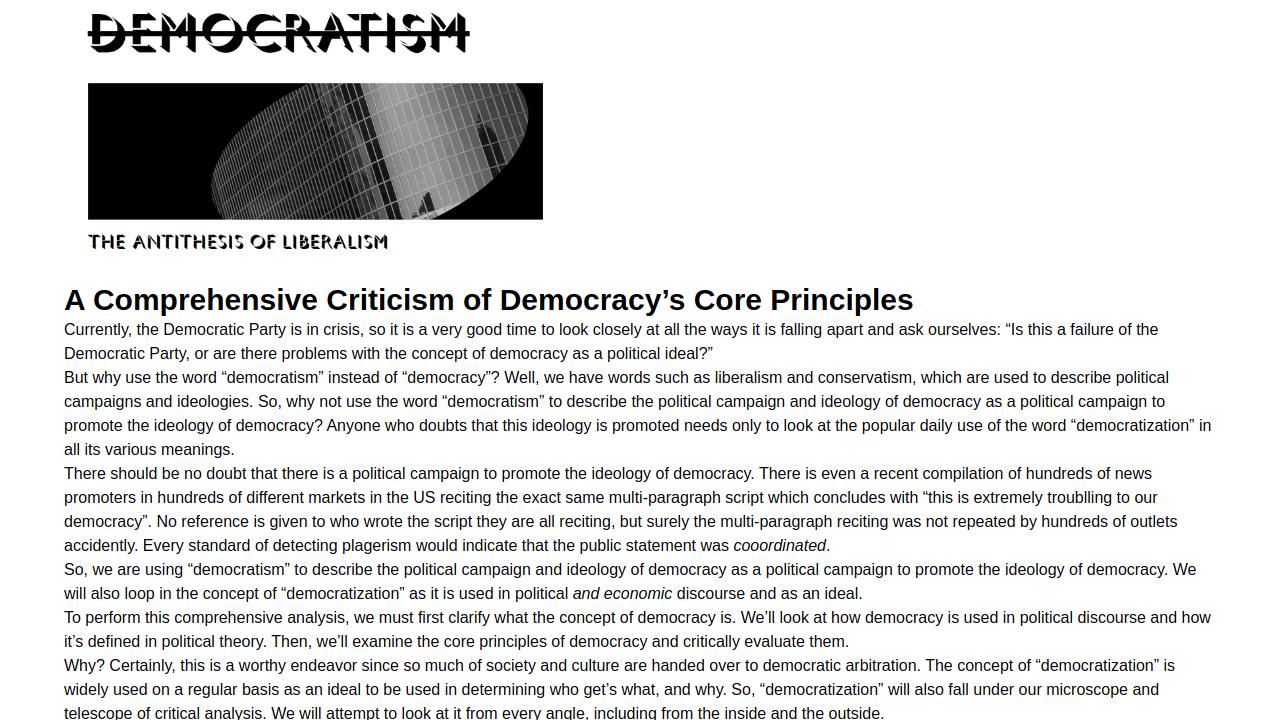
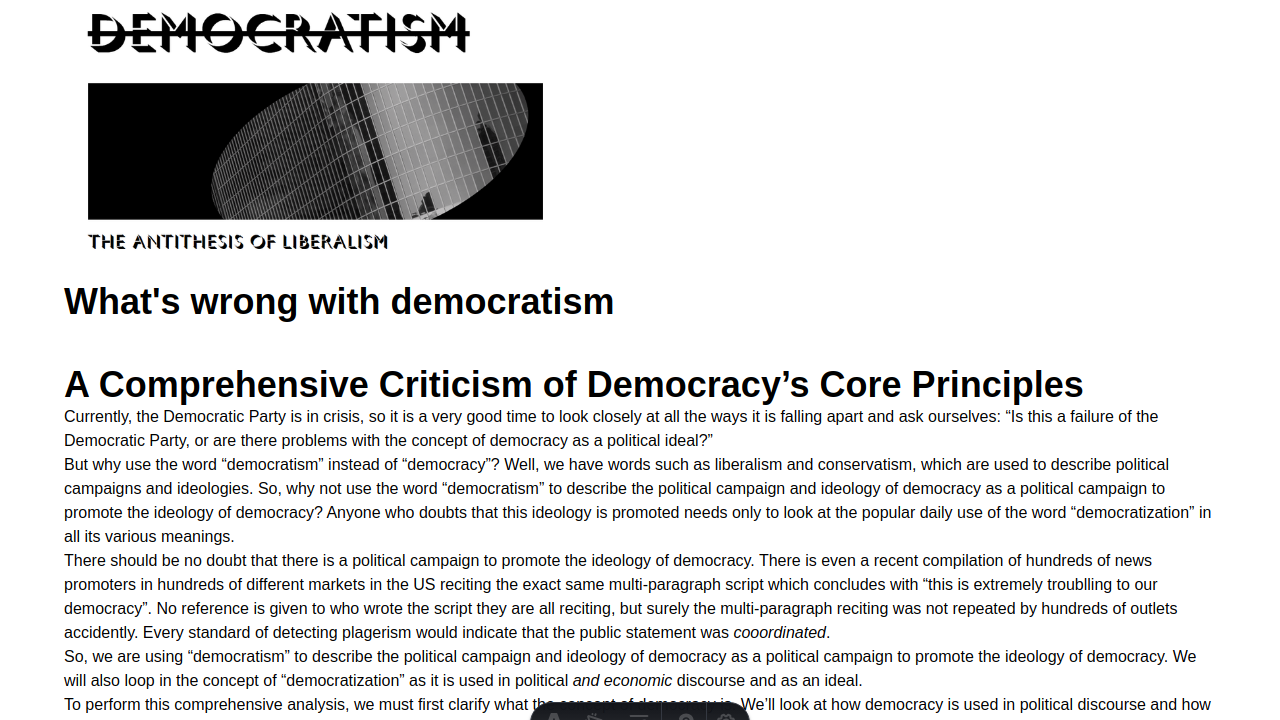
docs: Update plan.md with current progress and refined layout details
This commit updates the project plan to reflect:
- Current progress on content migration, routing, and basic content panel display.
- Refined styling requirements for ContentPanel.astro (no outer padding, inner padding, excerpt expansion).
- Detailed plan for fixing hierarchical content display in subfolder '_index.md' pages.
- Inclusion of automation scripts for debugging and verification (check-subfolder-content.ts, capture-screenshot.ts, dev:log).
- Updated Mermaid diagram to reflect current content flow and layout considerations.

Changed region(s): [[0.0312, 0.3972, 0.9375, 1.0]]

diff --git a/urllog-output/page.html b/urllog-output/page.html
@@ -1,4 +1,4 @@
-<!DOCTYPE html><html lang="en"><head><!-- Google Tag Manager --><script type="text/javascript" async="" src="https://www.googletagmanager.com/gtag/destination?id=G-JZVDP135XB&amp;cx=c&amp;gtm=45He5811v9202802185za200&amp;tag_exp=101509157~103116026~103200004~103233427~104684208~104684211~105087538~105087540~105103161~105103163"></script><script async="" src="https://www.googletagmanager.com/gtm.js?id=GTM-PTHTMPJT"></script><script type="module" src="/src/components/GtmHead.astro?astro&amp;type=script&amp;index=0&amp;lang.ts"></script> <!-- End Google Tag Manager --><meta charset="UTF-8"><meta name="viewport" content="width=device-width"><link rel="icon" type="image/svg+xml" href="/favicon.svg"><meta name="generator" content="Astro v5.12.8"><title>Democratism Info</title><style data-vite-dev-id="/home/mstouffer/repos/democratism/node_modules/@astrojs/tailwind/base.css">*, ::before, ::after {
+<!DOCTYPE html><html lang="en"><head><!-- Google Tag Manager --><script type="text/javascript" async="" src="https://www.googletagmanager.com/gtag/destination?id=G-JZVDP135XB&amp;cx=c&amp;gtm=45He5840v9202802185za200&amp;tag_exp=101509157~103116026~103200004~103233427~104684208~104684211~105087538~105087540~105103161~105103163"></script><script async="" src="https://www.googletagmanager.com/gtm.js?id=GTM-PTHTMPJT"></script><script type="module" src="/src/components/GtmHead.astro?astro&amp;type=script&amp;index=0&amp;lang.ts"></script> <!-- End Google Tag Manager --><meta charset="UTF-8"><meta name="viewport" content="width=device-width"><link rel="icon" type="image/svg+xml" href="/favicon.svg"><meta name="generator" content="Astro v5.12.8"><title>What's wrong with democratism</title><style data-vite-dev-id="/home/mstouffer/repos/democratism/node_modules/@astrojs/tailwind/base.css">*, ::before, ::after {
   --tw-border-spacing-x: 0;
   --tw-border-spacing-y: 0;
   --tw-translate-x: 0;
@@ -554,6 +554,9 @@ video {
 .mt-4 {
   margin-top: 1rem;
 }
+.mt-8 {
+  margin-top: 2rem;
+}
 .block {
   display: block;
 }
@@ -586,9 +589,6 @@ video {
 }
 .rounded {
   border-radius: 0.25rem;
-}
-.rounded-lg {
-  border-radius: 0.5rem;
 }
 .rounded-md {
   border-radius: 0.375rem;
@@ -623,6 +623,10 @@ video {
   font-size: 1.5rem;
   line-height: 2rem;
 }
+.text-sm {
+  font-size: 0.875rem;
+  line-height: 1.25rem;
+}
 .text-xl {
   font-size: 1.25rem;
   line-height: 1.75rem;
@@ -633,14 +637,13 @@ video {
 .font-semibold {
   font-weight: 600;
 }
+.text-gray-500 {
+  --tw-text-opacity: 1;
+  color: rgb(107 114 128 / var(--tw-text-opacity, 1));
+}
 .text-gray-600 {
   --tw-text-opacity: 1;
   color: rgb(75 85 99 / var(--tw-text-opacity, 1));
-}
-.shadow-md {
-  --tw-shadow: 0 4px 6px -1px rgb(0 0 0 / 0.1), 0 2px 4px -2px rgb(0 0 0 / 0.1);
-  --tw-shadow-colored: 0 4px 6px -1px var(--tw-shadow-color), 0 2px 4px -2px var(--tw-shadow-color);
-  box-shadow: var(--tw-ring-offset-shadow, 0 0 #0000), var(--tw-ring-shadow, 0 0 #0000), var(--tw-shadow);
 }
 .shadow-none {
   --tw-shadow: 0 0 #0000;
@@ -664,19 +667,6 @@ video {
   transition-property: color, background-color, border-color, text-decoration-color, fill, stroke, opacity, box-shadow, transform, filter, backdrop-filter, -webkit-backdrop-filter;
   transition-timing-function: cubic-bezier(0.4, 0, 0.2, 1);
   transition-duration: 150ms;
-}
-.transition-shadow {
-  transition-property: box-shadow;
-  transition-timing-function: cubic-bezier(0.4, 0, 0.2, 1);
-  transition-duration: 150ms;
-}
-.duration-200 {
-  transition-duration: 200ms;
-}
-.hover\:shadow-lg:hover {
-  --tw-shadow: 0 10px 15px -3px rgb(0 0 0 / 0.1), 0 4px 6px -4px rgb(0 0 0 / 0.1);
-  --tw-shadow-colored: 0 10px 15px -3px var(--tw-shadow-color), 0 4px 6px -4px var(--tw-shadow-color);
-  box-shadow: var(--tw-ring-offset-shadow, 0 0 #0000), var(--tw-ring-shadow, 0 0 #0000), var(--tw-shadow);
 }
 @media (min-width: 640px) {
 
@@ -783,16 +773,14 @@ h3 {
   font-size: 1.5rem; /* 24px */
   line-height: 2rem; /* 32px */
 }
-</style>
-<style data-vite-dev-id="/home/mstouffer/repos/democratism/src/components/AmazonBook.astro?astro&amp;type=style&amp;index=0&amp;lang.css">.amazon-book[data-astro-cid-6622cg2l]{border:1px solid #ccc;padding:10px;display:flex;max-width:200px;flex-direction:column;align-items:center;text-decoration:none;color:black}.amazon-book[data-astro-cid-6622cg2l] img[data-astro-cid-6622cg2l]{max-width:150px;height:auto}.amazon-book[data-astro-cid-6622cg2l] h3[data-astro-cid-6622cg2l]{margin-top:10px;text-align:center}</style><script type="module" src="/@vite/client"></script>
+</style><script type="module" src="/@vite/client"></script>
 <script type="module" src="/@fs/home/mstouffer/repos/democratism/node_modules/astro/dist/runtime/client/dev-toolbar/entrypoint.js?v=2b95b5b4"></script>
 <script>window.__astro_dev_toolbar__ = {"root":"/home/mstouffer/repos/democratism/","version":"5.12.8","debugInfo":"Astro                    v5.12.8\nNode                     v22.15.1\nSystem                   Linux (x64)\nPackage Manager          npm\nOutput                   static\nAdapter                  none\nIntegrations             @astrojs/mdx\n                         @astrojs/react\n                         @astrojs/tailwind\n                         @astrojs/partytown\n                         @sentry/astro\n                         @spotlightjs/astro\n                         @astrojs/sitemap"}</script>
 <script>!(function(w,p,f,c){if(!window.crossOriginIsolated && !navigator.serviceWorker) return;c=w[p]=Object.assign(w[p]||{},{"lib":"/~partytown/","debug":true});c[f]=(c[f]||[])})(window,'partytown','forward');/* Partytown 0.11.2 - MIT QwikDev */
 const t={preserveBehavior:!1},e=e=>{if("string"==typeof e)return[e,t];const[n,r=t]=e;return[n,{...t,...r}]},n=Object.freeze((t=>{const e=new Set;let n=[];do{Object.getOwnPropertyNames(n).forEach((t=>{"function"==typeof n[t]&&e.add(t)}))}while((n=Object.getPrototypeOf(n))!==Object.prototype);return Array.from(e)})());!function(t,r,o,i,a,s,c,l,d,p,u=t,f){function h(){f||(f=1,"/"==(c=(s.lib||"/~partytown/")+(s.debug?"debug/":""))[0]&&(d=r.querySelectorAll('script[type="text/partytown"]'),i!=t?i.dispatchEvent(new CustomEvent("pt1",{detail:t})):(l=setTimeout(v,(null==s?void 0:s.fallbackTimeout)||1e4),r.addEventListener("pt0",w),a?y(1):o.serviceWorker?o.serviceWorker.register(c+(s.swPath||"partytown-sw.js"),{scope:c}).then((function(t){t.active?y():t.installing&&t.installing.addEventListener("statechange",(function(t){"activated"==t.target.state&&y()}))}),console.error):v())))}function y(e){p=r.createElement(e?"script":"iframe"),t._pttab=Date.now(),e||(p.style.display="block",p.style.width="0",p.style.height="0",p.style.border="0",p.style.visibility="hidden",p.setAttribute("aria-hidden",!0)),p.src=c+"partytown-"+(e?"atomics.js?v=0.11.2":"sandbox-sw.html?"+t._pttab),r.querySelector(s.sandboxParent||"body").appendChild(p)}function v(n,o){for(w(),i==t&&(s.forward||[]).map((function(n){const[r]=e(n);delete t[r.split(".")[0]]})),n=0;n<d.length;n++)(o=r.createElement("script")).innerHTML=d[n].innerHTML,o.nonce=s.nonce,r.head.appendChild(o);p&&p.parentNode.removeChild(p)}function w(){clearTimeout(l)}s=t.partytown||{},i==t&&(s.forward||[]).map((function(r){const[o,{preserveBehavior:i}]=e(r);u=t,o.split(".").map((function(e,r,o){var a;u=u[o[r]]=r+1<o.length?u[o[r]]||(a=o[r+1],n.includes(a)?[]:{}):(()=>{let e=null;if(i){const{methodOrProperty:n,thisObject:r}=((t,e)=>{let n=t;for(let t=0;t<e.length-1;t+=1)n=n[e[t]];return{thisObject:n,methodOrProperty:e.length>0?n[e[e.length-1]]:void 0}})(t,o);"function"==typeof n&&(e=(...t)=>n.apply(r,...t))}return function(){let n;return e&&(n=e(arguments)),(t._ptf=t._ptf||[]).push(o,arguments),n}})()}))})),"complete"==r.readyState?h():(t.addEventListener("DOMContentLoaded",h),t.addEventListener("load",h))}(window,document,navigator,top,window.crossOriginIsolated);;(e=>{e.addEventListener("astro:before-swap",e=>{let r=document.body.querySelector("iframe[src*='/~partytown/']");if(r)e.newDocument.body.append(r)})})(document);</script>
 <script type="module" src="/@id/astro:scripts/page.js"></script>
 <script type="module" src="/node_modules/@astrojs/tailwind/base.css"></script>
-<script type="module" src="/src/styles/global.css"></script>
-<script type="module" src="/src/components/AmazonBook.astro?astro&amp;type=style&amp;index=0&amp;lang.css"></script></head><body data-astro-source-file="/home/mstouffer/repos/democratism/src/layouts/Layout.astro" data-astro-source-loc="26:9"> <!-- Google Tag Manager (noscript) --><noscript><iframe src="https://www.googletagmanager.com/ns.html?id=GTM-PTHTMPJT" height="0" width="0" style="display:none;visibility:hidden" data-astro-source-file="/home/mstouffer/repos/democratism/src/components/GtmBody.astro" data-astro-source-loc="5:12"></iframe></noscript><!-- End Google Tag Manager (noscript) --> <div class="px-4 md:px-8 lg:px-16" data-astro-source-file="/home/mstouffer/repos/democratism/src/layouts/Layout.astro" data-astro-source-loc="28:40"> <img src="/images/hero_700x369.png" alt="hero" width="40%" class="hero" data-astro-source-file="/home/mstouffer/repos/democratism/src/components/Header.astro" data-astro-source-loc="4:2"> </div> <div class="px-4 md:px-8 lg:px-16" data-astro-source-file="/home/mstouffer/repos/democratism/src/layouts/Layout.astro" data-astro-source-loc="31:40"> <h2 id="a-comprehensive-criticism-of-democracys-core-principles">A Comprehensive Criticism of Democracy’s Core Principles</h2>
+<script type="module" src="/src/styles/global.css"></script></head><body> <!-- Google Tag Manager (noscript) --><noscript><iframe src="https://www.googletagmanager.com/ns.html?id=GTM-PTHTMPJT" height="0" width="0" style="display:none;visibility:hidden" data-astro-source-file="/home/mstouffer/repos/democratism/src/components/GtmBody.astro" data-astro-source-loc="5:12"></iframe></noscript><!-- End Google Tag Manager (noscript) --> <div class="px-4 md:px-8 lg:px-16"> <img src="/images/hero_700x369.png" alt="hero" width="40%" class="hero"> </div> <div class="px-4 md:px-8 lg:px-16"> <main> <h1>What's wrong with democratism</h1>   <h1 id="a-comprehensive-criticism-of-democracys-core-principles">A Comprehensive Criticism of Democracy’s Core Principles</h1>
 <p>Currently, the Democratic Party is in crisis, so it is a very good time to look closely at all the ways it is falling apart and ask ourselves: “Is this a failure of the Democratic Party, or are there problems with the concept of democracy as a political ideal?”</p>
 <p>But why use the word “democratism” instead of “democracy”? Well, we have words such as liberalism and conservatism, which are used to describe political campaigns and ideologies. So, why not use the word “democratism” to describe the political campaign and ideology of democracy as a political campaign to promote the ideology of democracy? Anyone who doubts that this ideology is promoted needs only to look at the popular daily use of the word “democratization” in all its various meanings.</p>
 <p>There should be no doubt that there is a political campaign to promote the ideology of democracy. There is even a recent compilation of hundreds of news promoters in hundreds of different markets in the US reciting the exact same multi-paragraph script which concludes with “this is extremely troublling to our democracy”. No reference is given to who wrote the script they are all reciting, but surely the multi-paragraph reciting was not repeated by hundreds of outlets accidently. Every standard of detecting plagerism would indicate that the public statement was <em>cooordinated</em>.</p>
@@ -802,57 +790,6 @@ const t={preserveBehavior:!1},e=e=>{if("string"==typeof e)return[e,t];const[n,r=
 <p>If democracy is prommoted as an idea, that is to say, as something to be pursued in life and even as a political campaign, and if it is false or flawed, then it will promote false requirements. False requirements <em>always</em> end up sovling the wrong problem. So we will also investigate all the cultural artifacts that have been produced and that we live with today because moralists and “thought leaders” have been promoting the false requirements of democracy for many decades.</p>
 <p>So let us begin with a comprehensive list of both the popular concept of democracy and the more technically developed definitions of democracy so that we can “deconstruct” them.</p>
 <p>NOTE: I will be using the justifications for democracy produced by OPEN AI’s GPT-4o model as a first draft. It has read much of the internet, and the LLM is specifically designed to produce the most common text phrases, so it is probably a better starting point than any academic study, however, we will also incorporate those as time permits.</p>
-<p>All edits are available at <a href="https://github.com/integ8or/democratism">The GitHub repo for this site</a></p>
-<h2 id="introduction">Introduction</h2>
-<p>In the vast expanse of human history, the concept of democracy has been a beacon of hope and progress. However, the term “democracy” itself is often misunderstood, leading to misconceptions about its true essence and the values it upholds.</p>
-<p>NOTE: Democracy “is often misunderstood” because the concept difers greatly from its implementation.</p>
-<p>This article aims to clarify these misunderstandings and delve into the core principles of democracy, emphasizing the importance of “democratism” as a guiding force for a truly democratic society.</p>
-<p>NOTE: This article will not assume that the dominant political theory is simply accidentally misunderstood. This article will ask the somewhat novel approach of asking if democracy as it is promoted and used is a coherent ideal. Certainly, a majority vote system exists and can be used, so we are not going to question if such a system can possibly be used. However, we will question the entire remainder of democracy wherin majority vote is promoted and campaigned for as the system to be applied generally.</p>
-<h2 id="the-falacy-of-democratization">The Falacy of Democratization</h2>
-<p>The only one good claim of Democracy is that it redistributes power.</p>
-<p>Even that statement is too generous. The claimed intent of democracy is that it will redistribute power. That’s the sales pitch, and that would be a good thing for it to do. However, the redistribution of power is the farthest thing from what democracy delivers, or is even designed to do. Democratists will redistributed all goods and services that they have plundered from their citizens in order to avoid having to redistribute power.</p>
-<h2 id="the-misunderstanding-of-democracy">The Misunderstanding of Democracy</h2>
-<p>Democracy is often mistakenly equated with majority rule, where the will of the majority prevails over the rights and interests of minorities. This narrow interpretation fails to capture the essence of democracy, which is a system of governance that values individual rights, freedom, and equality.
-Democracy is not merely about voting for leaders or making decisions through popular referendums. It is a complex system that encompasses various institutions, processes, and norms that ensure the participation, representation, and accountability of all citizens.</p>
-<p>NOTE: This is quite a misdirection. Democracy <em>is rightfully</em> equated with majority rule, because that’s how it’s implemented. However, the misdirection gives away the game by telling us that democracy is actually made up of “a complex system that encompasses various institutions”, and the rest is mere “convincing language”. Democracy itself does not value individual rights, for instance, and democratists (promoters of democracy) often malign individual self interest as “selfishness”, and in opposition to “the common good”.</p>
-<p>..So, the remaining part of the misdirection is the “complex system of institutions” part. This is a common misdirection, and it’s a way to make democracy sound more complex and sophisticated than it is. In reality, democracy is a simple system: the majority rules. That’s it. The “complex system of institutions” are the millions of governmet funded agencies, NGOs, and other organizations that are used to influence public opinion and promote the agenda of the majority elect. These institutions are not part of democracy itself. They are a way of for elected officials to move portions of their agenda beyond the accountablity of the electorate.</p>
-<h2 id="the-core-principles-of-democracy">The Core Principles of Democracy</h2>
-<p>To understand the true nature of democracy, let’s examine its core principles:</p>
-<ol>
-<li><strong>Sovereignty of the People</strong>: The ultimate source of power in a democratic society is the people themselves. Citizens have the right to govern themselves and make decisions that reflect their collective will.</li>
-<li><strong>Individual Rights and Freedoms</strong>: Democracy recognizes and protects the inherent rights and freedoms of every individual. These include the right to life, liberty, and the pursuit of happiness, as well as the right to equality before the law and the right to participate in the political process.</li>
-<li><strong>Separation of Powers</strong>: Democracy divides power among various institutions, such as the legislature, executive, and judiciary. This separation ensures that no single branch of government can exercise unchecked power and that checks and balances are in place to maintain the integrity of the system.</li>
-<li><strong>Rule of Law</strong>: Democracy is based on the principle of the rule of law, which means that all citizens, including government officials, are subject to the same laws and are equal before the law. This ensures that the law is applied fairly and consistently.</li>
-<li><strong>Representation and Accountability</strong>: Democracy requires that all citizens have the opportunity to be represented in the political process and that elected officials are held accountable for their actions. This can be achieved through various mechanisms, such as regular elections, term limits, and the ability to recall or impeach officials.</li>
-</ol>
-<h2 id="democratism-a-guiding-force-for-democracy">Democratism: A Guiding Force for Democracy</h2>
-<p>Democratism is a philosophy that serves as a guiding force for democracy. It emphasizes the importance of active citizenship, participation, and engagement in the political process. Democratism encourages individuals to take an active role in shaping their communities and society, rather than relying solely on elected officials to make decisions on their behalf.
-Democratism also emphasizes the importance of inclusivity and diversity in the political process. It recognizes that all voices should be heard and that decisions should be made in a way that reflects the diversity of the population. Democratism promotes the idea that democracy is not just about voting, but also about creating a society that is fair, just, and equitable for all.</p>
-<h3 id="key-principles-of-democratism">Key Principles of Democratism</h3>
-<ol>
-<li><strong>Active Citizenship</strong>: Democratism emphasizes the importance of active citizenship, which means that individuals should be engaged in the political process and take an active role in shaping their communities and society. This can be achieved through various means, such as voting, volunteering, and participating in community organizations.</li>
-<li><strong>Participation and Engagement</strong>: Democratism encourages individuals to be actively involved in the political process, rather than simply voting every few years. This can involve attending public meetings, joining community organizations, and engaging in online discussions and campaigns.</li>
-<li><strong>Inclusivity and Diversity</strong>: Democratism recognizes the importance of inclusivity and diversity in the political process. It promotes the idea that all voices should be heard and that decisions should be made in a way that reflects the diversity of the population. This can involve efforts to ensure that elections are fair and accessible, and that policies and programs are designed to meet the needs of all communities.</li>
-<li><strong>Fairness and Equity</strong>: Democratism emphasizes the importance of fairness and equity in society. It promotes the idea that all individuals should have equal access to opportunities and resources, and that decisions should be made in a way that benefits all members of society. This can involve efforts to address systemic inequalities and to ensure that policies and programs are designed to promote social justice and economic mobility.</li>
-<li><strong>Transparency and Accountability</strong>: Democratism values transparency and accountability in the political process. It promotes the idea that government should be open and accountable to its citizens, and that decisions should be made in a way that is transparent and easily understood. This can involve efforts to ensure that government records are publicly available, that officials are subject to regular audits, and that decisions are made in a way that is open to public scrutiny.</li>
-<li><strong>Collaboration and Cooperation</strong>: Democratism emphasizes the importance of collaboration and cooperation in the political process. It promotes the idea that decisions should be made in a way that involves the input and participation of a wide range of stakeholders, including individuals, communities, and organizations. This can involve efforts to build coalitions and partnerships, and to ensure that decisions are made in a way that reflects the needs and interests of all stakeholders.</li>
-<li><strong>Empowerment and Self-Determination</strong>: Democratism promotes the idea that individuals and communities should have the power to shape their own destinies. It emphasizes the importance of empowering individuals and communities to make decisions about their own lives, and to take control of their own futures. This can involve efforts to ensure that individuals have access to the resources and support they need to make informed decisions, and to ensure that communities have the autonomy to make decisions about their own affairs.</li>
-<li><strong>Inclusion and Equality</strong>: Democratism values inclusion and equality, and promotes the idea that all individuals and communities should be treated fairly and with respect. It emphasizes the importance of ensuring that all individuals have equal access to the resources and opportunities they need to succeed, and that decisions are made in a way that reflects the needs and interests of all individuals and communities. This can involve efforts to address systemic inequalities and discrimination, and to ensure that all individuals have the opportunity to participate in the political process.</li>
-<li><strong>Participation and Engagement</strong>: Democratism values participation and engagement in the political process. It promotes the idea that individuals and communities should have the opportunity to participate in decision-making, and that their voices should be heard and respected. This can involve efforts to ensure that individuals have access to the information and resources they need to make informed decisions, and that they have the opportunity to participate in elections and other forms of political engagement.</li>
-<li><strong>Responsiveness and Accountability</strong>: Democratism values responsiveness and accountability in the political process. It promotes the idea that government should be responsive to the needs and concerns of its citizens, and that officials should be held accountable for their actions. This can involve efforts to ensure that government is responsive to public input and feedback, and that officials are held accountable for their decisions and actions.</li>
-<li><strong>Transparency and Openness</strong>: Democratism values transparency and openness in the political process. It promotes the idea that government should be open and accountable to its citizens, and that information should be made available to the public in a timely and accessible manner. This can involve efforts to ensure that government meetings and documents are open to the public, and that officials are required to disclose information about their financial interests and activities.</li>
-<li><strong>Rule of Law</strong>: Democratism values the rule of law, which means that all individuals and institutions are subject to the same laws and that those laws are enforced fairly and impartially. This promotes the idea that everyone is equal before the law, and that the law should be used to protect the rights and interests of all citizens.</li>
-<li><strong>Civil Society and Civil Liberties</strong>: Democratism values the role of civil society and civil liberties in a democratic society. It promotes the idea that civil society organizations and individuals should have the freedom to organize and engage in activities that promote the common good, and that individuals should have the freedom to express themselves and engage in political activity without fear of reprisal. This can involve efforts to protect the rights of individuals to freedom of speech, assembly, and association, and to promote the role of civil society organizations in addressing social and political issues.</li>
-<li><strong>Pluralism and Diversity</strong>: Democratism values pluralism and diversity, which means that it recognizes and respects the diversity of ideas, cultures, and backgrounds within a society. It promotes the idea that a democratic society should be inclusive and welcoming to all individuals, regardless of their race, ethnicity, religion, gender, sexual orientation, or other characteristics. This can involve efforts to promote diversity and inclusion in government, education, and other institutions, and to ensure that the voices of marginalized and underrepresented groups are heard and respected.</li>
-<li><strong>Sustainability and Long-Term Thinking</strong>: Democratism values sustainability and long-term thinking, which means that it recognizes the need to consider the impact of decisions on future generations. It promotes the idea that decisions should be made with an eye towards the long-term well-being of society, and that the environment and natural resources should be protected and managed in a sustainable manner. This can involve efforts to promote sustainable development, to address climate change, and to ensure that decisions are made with an eye towards the long-term interests of society.</li>
-<li><strong>Citizen Participation and Empowerment</strong>: Democratism values citizen participation and empowerment, which means that it recognizes the importance of involving citizens in the democratic process and empowering them to make informed decisions about their own lives. It promotes the idea that citizens should have the opportunity to participate in government, to have their voices heard, and to make a difference in their communities. This can involve efforts to promote civic education, to increase voter turnout, and to ensure that citizens have access to the information and resources they need to make informed decisions.</li>
-<li><strong>Rule of Law and Due Process</strong>: Democratism values the rule of law and due process, which means that it recognizes the importance of following the law and ensuring that all individuals are treated fairly and equally under the law. It promotes the idea that the government should be bound by the law, and that individuals should have the right to due process and a fair trial. This can involve efforts to promote transparency and accountability in government, to ensure that the legal system is fair and impartial, and to protect the rights and liberties of individuals.</li>
-<li><strong>Freedom of Expression and Assembly</strong>: Democratism values freedom of expression and assembly, which means that it recognizes the importance of allowing individuals to freely express their ideas and opinions, and to peacefully assemble and organize. It promotes the idea that individuals should have the right to speak out against injustice, to protest peacefully, and to organize and advocate for their interests. This can involve efforts to promote freedom of speech, to protect the rights of journalists and other media professionals, and to ensure that individuals have the opportunity to express their views and opinions in a safe and supportive environment.</li>
-<li><strong>Equality and Non-Discrimination</strong>: Democratism values equality and non-discrimination, which means that it recognizes the importance of treating all individuals equally and without discrimination. It promotes the idea that all individuals should have the same rights and opportunities, regardless of their race, ethnicity, religion, gender, sexual orientation, or other characteristics. This can involve efforts to promote equal opportunities in education, employment, and other areas of life, and to ensure that individuals are not discriminated against on the basis of their identity or background.</li>
-<li><strong>Responsibility and Accountability</strong>: Democratism values responsibility and accountability, which means that it recognizes the importance of holding individuals and institutions accountable for their actions. It promotes the idea that individuals should be held responsible for their decisions and actions, and that institutions should be held accountable for their performance. This can involve efforts to promote transparency and accountability in government, to ensure that individuals are held responsible for their actions, and to hold institutions to high standards of performance.</li>
-<li><strong>Participation and Inclusion</strong>: Democratism values participation and inclusion, which means that it recognizes the importance of involving all individuals in the decision-making process and ensuring that all voices are heard. It promotes the idea that democracy should be a participatory process, in which all individuals have the opportunity to participate in decision-making and to have their voices heard. This can involve efforts to promote political participation, to ensure that marginalized groups are included in the decision-making process, and to promote dialogue and collaboration among individuals with different backgrounds and perspectives.</li>
-<li><strong>Rule of Law</strong>: Democratism values the rule of law, which means that it recognizes the importance of following the law and upholding the principles of justice. It promotes the idea that all individuals should be subject to the same laws, and that the laws should be fair, just, and transparent. This can involve efforts to promote legal reform, to ensure that the legal system is accessible to all individuals, and to promote the principles of justice and fairness in the legal system.</li>
-<li><strong>Civil Society and Civil Liberties</strong>: Democratism values civil society and civil liberties, which means that it recognizes the importance of protecting the rights and freedoms of individuals and promoting the development of civil society. It promotes the idea that individuals should have the freedom to express themselves, to associate with others, and to participate in civil society. This can involve efforts to promote freedom of speech, to protect the rights of marginalized groups, and to promote the development of civil society organizations and institutions.</li>
-</ol><div class="grid grid-cols-1 sm:grid-cols-2 lg:grid-cols-3 gap-6" data-astro-source-file="/home/mstouffer/repos/democratism/src/pages/index.astro" data-astro-source-loc="57:69"> <a href="/content/democratism-vs-property" class="block" data-astro-source-file="/home/mstouffer/repos/democratism/src/components/ContentPanel.astro" data-astro-source-loc="13:30"> <div class="p-4 rounded-lg shadow-md hover:shadow-lg transition-shadow duration-200" data-astro-source-file="/home/mstouffer/repos/democratism/src/components/ContentPanel.astro" data-astro-source-loc="14:88">  <h2 class="text-xl font-semibold mb-2" data-astro-source-file="/home/mstouffer/repos/democratism/src/components/ContentPanel.astro" data-astro-source-loc="18:44">Democratism vs. Property</h2> <p class="text-gray-600" data-astro-source-file="/home/mstouffer/repos/democratism/src/components/ContentPanel.astro" data-astro-source-loc="19:30">Democratism is sold as a system that keeps the government acountable to the people it governs, but how does it do that?</p> </div> </a><a href="/content/equity-is-evil" class="block" data-astro-source-file="/home/mstouffer/repos/democratism/src/components/ContentPanel.astro" data-astro-source-loc="13:30"> <div class="p-4 rounded-lg shadow-md hover:shadow-lg transition-shadow duration-200" data-astro-source-file="/home/mstouffer/repos/democratism/src/components/ContentPanel.astro" data-astro-source-loc="14:88">  <h2 class="text-xl font-semibold mb-2" data-astro-source-file="/home/mstouffer/repos/democratism/src/components/ContentPanel.astro" data-astro-source-loc="18:44">Equity is Evil</h2> <p class="text-gray-600" data-astro-source-file="/home/mstouffer/repos/democratism/src/components/ContentPanel.astro" data-astro-source-loc="19:30"></p> </div> </a><a href="/content/not-about-the-democratic-party" class="block" data-astro-source-file="/home/mstouffer/repos/democratism/src/components/ContentPanel.astro" data-astro-source-loc="13:30"> <div class="p-4 rounded-lg shadow-md hover:shadow-lg transition-shadow duration-200" data-astro-source-file="/home/mstouffer/repos/democratism/src/components/ContentPanel.astro" data-astro-source-loc="14:88">  <h2 class="text-xl font-semibold mb-2" data-astro-source-file="/home/mstouffer/repos/democratism/src/components/ContentPanel.astro" data-astro-source-loc="18:44">Not About the Democratic Party</h2> <p class="text-gray-600" data-astro-source-file="/home/mstouffer/repos/democratism/src/components/ContentPanel.astro" data-astro-source-loc="19:30"></p> </div> </a><a href="/content/not-about-rehabilitating-democracy" class="block" data-astro-source-file="/home/mstouffer/repos/democratism/src/components/ContentPanel.astro" data-astro-source-loc="13:30"> <div class="p-4 rounded-lg shadow-md hover:shadow-lg transition-shadow duration-200" data-astro-source-file="/home/mstouffer/repos/democratism/src/components/ContentPanel.astro" data-astro-source-loc="14:88">  <h2 class="text-xl font-semibold mb-2" data-astro-source-file="/home/mstouffer/repos/democratism/src/components/ContentPanel.astro" data-astro-source-loc="18:44">This Deep Dive should not focus on rehabilitating democratism</h2> <p class="text-gray-600" data-astro-source-file="/home/mstouffer/repos/democratism/src/components/ContentPanel.astro" data-astro-source-loc="19:30"></p> </div> </a><a href="/content/the-democratist-political-pyramid-scheme" class="block" data-astro-source-file="/home/mstouffer/repos/democratism/src/components/ContentPanel.astro" data-astro-source-loc="13:30"> <div class="p-4 rounded-lg shadow-md hover:shadow-lg transition-shadow duration-200" data-astro-source-file="/home/mstouffer/repos/democratism/src/components/ContentPanel.astro" data-astro-source-loc="14:88">  <h2 class="text-xl font-semibold mb-2" data-astro-source-file="/home/mstouffer/repos/democratism/src/components/ContentPanel.astro" data-astro-source-loc="18:44">The Democratist Political Pyramid Scheme</h2> <p class="text-gray-600" data-astro-source-file="/home/mstouffer/repos/democratism/src/components/ContentPanel.astro" data-astro-source-loc="19:30"></p> </div> </a><a href="/content/wanting-to-be-a-member-of-the-majority" class="block" data-astro-source-file="/home/mstouffer/repos/democratism/src/components/ContentPanel.astro" data-astro-source-loc="13:30"> <div class="p-4 rounded-lg shadow-md hover:shadow-lg transition-shadow duration-200" data-astro-source-file="/home/mstouffer/repos/democratism/src/components/ContentPanel.astro" data-astro-source-loc="14:88">  <h2 class="text-xl font-semibold mb-2" data-astro-source-file="/home/mstouffer/repos/democratism/src/components/ContentPanel.astro" data-astro-source-loc="18:44">Wanting to be a Member of the Majority</h2> <p class="text-gray-600" data-astro-source-file="/home/mstouffer/repos/democratism/src/components/ContentPanel.astro" data-astro-source-loc="19:30"></p> </div> </a><a href="/content/disorientation" class="block" data-astro-source-file="/home/mstouffer/repos/democratism/src/components/ContentPanel.astro" data-astro-source-loc="13:30"> <div class="p-4 rounded-lg shadow-md hover:shadow-lg transition-shadow duration-200" data-astro-source-file="/home/mstouffer/repos/democratism/src/components/ContentPanel.astro" data-astro-source-loc="14:88">  <h2 class="text-xl font-semibold mb-2" data-astro-source-file="/home/mstouffer/repos/democratism/src/components/ContentPanel.astro" data-astro-source-loc="18:44">Disorientation</h2> <p class="text-gray-600" data-astro-source-file="/home/mstouffer/repos/democratism/src/components/ContentPanel.astro" data-astro-source-loc="19:30">Political disorientation is everywhere</p> </div> </a><a href="/content/emails" class="block" data-astro-source-file="/home/mstouffer/repos/democratism/src/components/ContentPanel.astro" data-astro-source-loc="13:30"> <div class="p-4 rounded-lg shadow-md hover:shadow-lg transition-shadow duration-200" data-astro-source-file="/home/mstouffer/repos/democratism/src/components/ContentPanel.astro" data-astro-source-loc="14:88">  <h2 class="text-xl font-semibold mb-2" data-astro-source-file="/home/mstouffer/repos/democratism/src/components/ContentPanel.astro" data-astro-source-loc="18:44">Emails</h2> <p class="text-gray-600" data-astro-source-file="/home/mstouffer/repos/democratism/src/components/ContentPanel.astro" data-astro-source-loc="19:30"></p> </div> </a>  <a href="https://www.amazon.com/dp/0197642292" target="_blank" class="amazon-book" data-astro-cid-6622cg2l="" data-astro-source-file="/home/mstouffer/repos/democratism/src/components/AmazonBook.astro" data-astro-source-loc="27:60"><img src="/images/enrichment/51HhfFBJfLL.jpg" alt="Book Title" data-astro-cid-6622cg2l="" data-astro-source-file="/home/mstouffer/repos/democratism/src/components/AmazonBook.astro" data-astro-source-loc="28:6"><h3 data-astro-cid-6622cg2l="" data-astro-source-file="/home/mstouffer/repos/democratism/src/components/AmazonBook.astro" data-astro-source-loc="29:9">Book Title</h3></a> </div>  </div> <div class="flex flex-col items-center mt-16" data-astro-source-file="/home/mstouffer/repos/democratism/src/layouts/Layout.astro" data-astro-source-loc="34:51"> <h3 class="text-2xl font-bold" data-astro-source-file="/home/mstouffer/repos/democratism/src/layouts/Layout.astro" data-astro-source-loc="35:38">
+<p>All edits are available at <a href="https://github.com/integ8or/democratism">The GitHub repo for this site</a></p>   </main>  </div> <div class="flex flex-col items-center mt-16"> <h3 class="text-2xl font-bold">
 Find out what's coming next
-</h3> <script async="" src="https://js.stripe.com/v3/buy-button.js"></script> <stripe-buy-button buy-button-id="buy_btn_1QmpGnIqwcrZU27h94xYfbeu" publishable-key="pk_live_51Qmo2tIqwcrZU27hsGU63F0lUyOe6b2JKEPvtwtgJRifyConKJKz1oDUopThZsy5GQS7KFN2kculw7Pc2A2ny3My00mBNNmZIj" class="" data-astro-source-file="/home/mstouffer/repos/democratism/src/components/StripeBuyButton.astro"></stripe-buy-button> </div> <div id="sentry-spotlight-root"></div><iframe aria-hidden="true" src="/~partytown/debug/partytown-sandbox-sw.html?1754350356851" style="display: block; width: 0px; height: 0px; border: 0px; visibility: hidden;"></iframe></body></html>
+</h3> <script async="" src="https://js.stripe.com/v3/buy-button.js"></script> <stripe-buy-button buy-button-id="buy_btn_1QmpGnIqwcrZU27h94xYfbeu" publishable-key="pk_live_51Qmo2tIqwcrZU27hsGU63F0lUyOe6b2JKEPvtwtgJRifyConKJKz1oDUopThZsy5GQS7KFN2kculw7Pc2A2ny3My00mBNNmZIj" class=""></stripe-buy-button> </div> <div id="sentry-spotlight-root"></div><astro-dev-toolbar></astro-dev-toolbar></body></html>

diff --git a/scripts/capture-screenshot.ts b/scripts/capture-screenshot.ts
@@ -1,0 +1,54 @@
+import { exec } from 'child_process';
+import * as path from 'path';
+
+async function captureScreenshot(url: string, outputPath: string): Promise<void> {
+  return new Promise((resolve, reject) => {
+    const outputDir = path.dirname(outputPath);
+    const fileName = path.basename(outputPath); // fileName is unused, but keeping for now
+
+    // Ensure the output directory exists
+    exec(`mkdir -p ${outputDir}`, (mkdirError) => {
+      if (mkdirError) {
+        console.error(`Error creating output directory: ${mkdirError.message}`);
+        return reject(mkdirError);
+      }
+
+      // Use urllog to capture screenshot
+      // urllog expects output directory, so we pass the directory of the outputPath
+      const command = `urllog ${url} --output-dir ${outputDir}`;
+      console.log(`Executing: ${command}`);
+
+      exec(command, (error, stdout, stderr) => {
+        if (error) {
+          console.error(`Error capturing screenshot: ${error.message}`);
+          console.error(`stderr: ${stderr}`);
+          return reject(error);
+        }
+        console.log(`Screenshot captured for ${url} to ${outputPath}`);
+        console.log(`stdout: ${stdout}`);
+        resolve();
+      });
+    });
+  });
+}
+
+// ESM-compatible check for running directly
+if (import.meta.url === `file://${process.argv[1]}`) {
+  const url = process.argv[2];
+  const outputPath = process.argv[3];
+
+  if (!url || !outputPath) {
+    console.error('Usage: node dist/scripts/capture-screenshot.js <URL> <OUTPUT_PATH>');
+    process.exit(1);
+  }
+
+  captureScreenshot(url, outputPath)
+    .then(() => {
+      console.log('Screenshot script finished.');
+      process.exit(0);
+    })
+    .catch((err) => {
+      console.error('Screenshot script failed:', err);
+      process.exit(1);
+    });
+}

diff --git a/scripts/check-subfolder-content.ts b/scripts/check-subfolder-content.ts
@@ -1,0 +1,45 @@
+import axios from 'axios';
+import * as cheerio from 'cheerio';
+
+async function checkSubfolderContent(url: string): Promise<boolean> {
+  try {
+    const response = await axios.get(url);
+    const $ = cheerio.load(response.data);
+
+    // Look for the section that contains child panels
+    // This assumes the structure is <div class="grid ..."> with ContentPanel elements inside
+    const contentPanels = $('div.grid div h2'); // Targeting h2 inside ContentPanel's div
+
+    if (contentPanels.length > 0) {
+      console.log(`Found ${contentPanels.length} content panels on ${url}.`);
+      contentPanels.each((i, el) => {
+        console.log(`  - Panel Title: ${$(el).text()}`);
+      });
+      return true;
+    } else {
+      console.log(`No content panels found on ${url}.`);
+      return false;
+    }
+  } catch (error: any) {
+    console.error(`Error checking URL ${url}: ${error.message}`);
+    return false;
+  }
+}
+
+// ESM-compatible check for running directly
+if (import.meta.url === `file://${process.argv[1]}`) {
+  const url = process.argv[2];
+  if (!url) {
+    console.error('Usage: node dist/scripts/check-subfolder-content.js <URL>');
+    process.exit(1);
+  }
+  checkSubfolderContent(url)
+    .then((found) => {
+      console.log(`Check complete. Subfolder content found: ${found}`);
+      process.exit(found ? 0 : 1);
+    })
+    .catch((err) => {
+      console.error('Script failed:', err);
+      process.exit(1);
+    });
+}

diff --git a/src/content/docs/whats-wrong-with-democratism/democratism-vs-property.md b/src/content/docs/whats-wrong-with-democratism/democratism-vs-property.md
@@ -5,6 +5,7 @@ tags: [politics, economics]
 slug: democratism-vs-property
 summary: Democratism is sold as a system that keeps the government acountable to the people it governs, but how does it do that?
 ---
+
 Do you think you own anything?
 
 Democratism opposes that.
